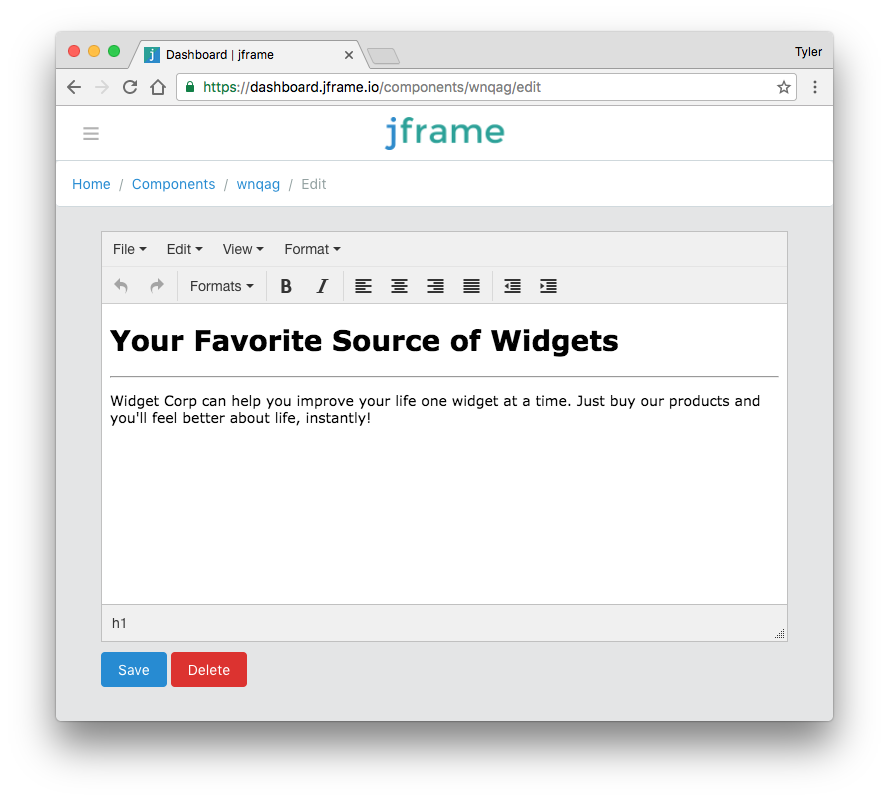
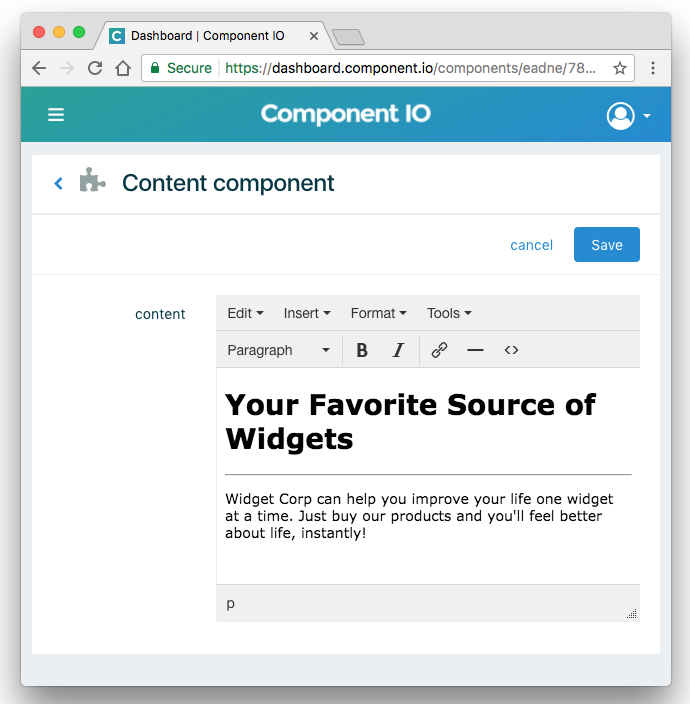
Updated Readme

diff --git a/index.html b/index.html
@@ -9,7 +9,7 @@
   <meta name="description" content="">
   <meta name="author" content="">
 
-  <title>Tutorial | jframe</title>
+  <title>Tutorial | Component IO</title>
 
   <!-- Bootstrap Core CSS -->
   <link href="vendor/bootstrap/css/bootstrap.min.css" rel="stylesheet">
@@ -71,7 +71,7 @@
   <header>
     <div class="header-content">
       <div class="header-content-inner">
-        <h1>Lorem ipsum</h1> <!-- replace with <jframe> -->
+        <h1>Lorem ipsum</h1> <!-- replace with <component> -->
         <br>
         <a href="#about" class="btn btn-primary btn-xl page-scroll">Find Out More</a>
       </div>
@@ -260,7 +260,7 @@
     </div>
   </section>
 
-  <!-- Paste jframe script here -->
+  <!-- Paste Component IO script here -->
 
   <!-- jQuery -->
   <script src="vendor/jquery/jquery.min.js"></script>

diff --git a/README.md b/README.md
@@ -1,8 +1,8 @@
-# Tutorial: Add content with a web component
+# Add content with a web component
 
 *This tutorial takes 5-10 minutes.*
 
-In this tutorial you will use a web component to render content on a webpage. Once the component is in place, you'll be able to edit the content without touching your code.
+Why use a web component to render content on a page? Because once the component is in place, you'll be able to edit the content without touching your code.
 
 ### [Demo here](http://tutorial-content-component.us-east-1.elasticbeanstalk.com/)
 
@@ -12,13 +12,13 @@ There are 2 ways to view the file: by downloading or by cloning this repository.
 
 #### Option A: direct download
 
-Download the code as a .zip file using the above [![Clone or download](https://res.cloudinary.com/jframe/image/upload/v1484267460/clone_or_download.png)](#) button. Unzip the package and view the web page by opening `index.html` with your browser.
+Download the code as a .zip file using the above [![Clone or download](https://res.cloudinary.com/component/image/upload/v1484267460/clone_or_download.png)](#) button. Unzip the package and view the web page by opening `index.html` with your browser.
 
 #### Option B: `git clone` and run with node
 
 * In your terminal window, run
 ```
-git clone https://github.com/jframedev/tutorial-content-component.git
+git clone https://github.com/component-io/tutorial-content-component.git
 cd tutorial-content-component
 npm install
 npm start
@@ -31,7 +31,7 @@ We have a basic landing page that needs some content to describe the main produc
 
 [![The web page before](img/tutorial-1.png)](http://tutorial-content-component.us-east-1.elasticbeanstalk.com/)
 
-We could simply hard-code a description, but this is a great example of where the marketing team or a client might want to make changes later. So instead, we can use a jframe content component, which will make it easy to change the content later if we want.
+We could simply hard-code a description, but this is a great example of where the marketing team or a client might want to make changes later. So instead, we can use a content component, which will make it easy to change the content later if we want.
 
 Find the heading in line 74 of `index.html`
 
@@ -40,42 +40,42 @@ Find the heading in line 74 of `index.html`
 ```
 and replace it with the following
 ```html
-<jframe content id="wnqag"></jframe>
+<component content></component>
 ```
 
-This jframe already has some content we can use. If you want to create your own jframe with your own content, you can [sign up for an account and create your own](https://jframe.io/auth/signup).
-
-With the jframe component in place, we just need to paste the jframe script onto the page. On line 263 of `index.html`, paste the script:
+and also paste the Component IO script on line 263 of `index.html`:
 
 ```js
-<!-- jframe script -->
-<script src="https://cdn.jframe.io/jframe.js" project="PROJECT-ID"></script>
+<!-- Component IO script -->
+<script project="tutorial" src="https://cdn.component.io/v1"></script>
 ```
 
-Now when you reload the page, you get the content from the jframe.
+The project called `tutorial` already has some content we can use. If you want to create your own content, you can [sign up for an account](https://component.io/auth) and use your own project instead.
+
+Now when you reload the page, you get the content from the component.
 
 [![The web page after](img/tutorial-2.png)](http://tutorial-content-component.us-east-1.elasticbeanstalk.com/)
 
-It's that simple -- your component is working, and you can now edit its content in the jframe dashboard.
+It's that simple -- your component is working, and you can now edit its content in the Component IO dashboard.
 
-[![jframe dashboard](img/tutorial-3.png)](https://jframe.io/)
+[![Component IO dashboard](img/tutorial-3.png)](https://component.io/)
 
-You've separated the content from the code, and any changes to the content can now be managed through jframe's online dashboard by anyone on the team.
+You've separated the content from the code, and any changes to the content can now be managed through the online dashboard by anyone on the team.
 
 Sign up to create your own component and edit it with the dashboard.
 
-[![Sign up](img/sign-up.png)](https://jframe.io/auth/signup)
+[![Sign up](img/sign-up.png)](https://component.io/auth)
 
 ## Extra: behind the scenes
 
-When the jframe script runs, it changes the jframe component from
+When the Component IO script runs, it changes the component from
 
 ```html
-<jframe content id="wnqag"></jframe>
+<component content></component>
 ```
 to
 ```html
-<div jframe content id="wnqag">
+<div component content>
   <h1>Your Favorite Source of Widgets</h1>
   <hr>
   <p>Widget Corp can help you improve your life one widget at a time. Just buy our products and you'll feel better about life, instantly!</p>
@@ -95,4 +95,4 @@ Have a bug or an issue with this template? [Open a new issue](/issues) here on G
 
 #### Copyright and License
 
-Copyright 2017 jframe. Code released under the [MIT](/LICENSE) license.
+Copyright 2017 Component IO. Code released under the [MIT](/LICENSE) license.
